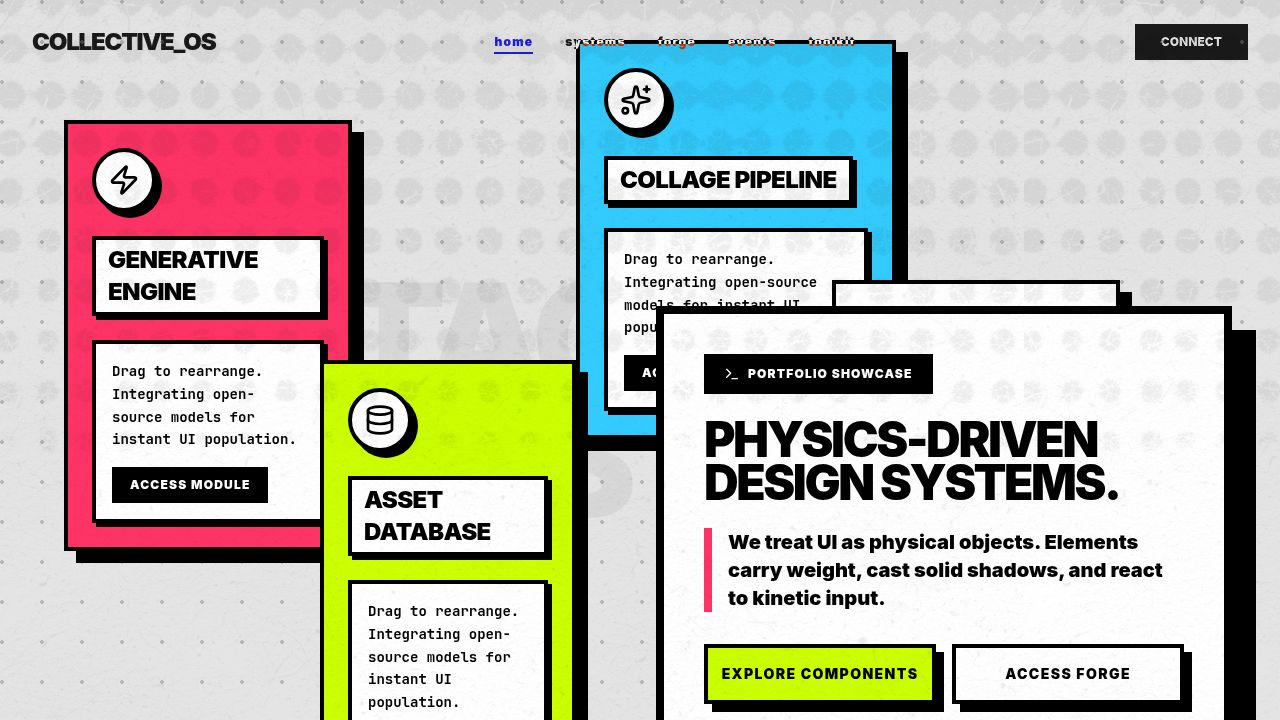
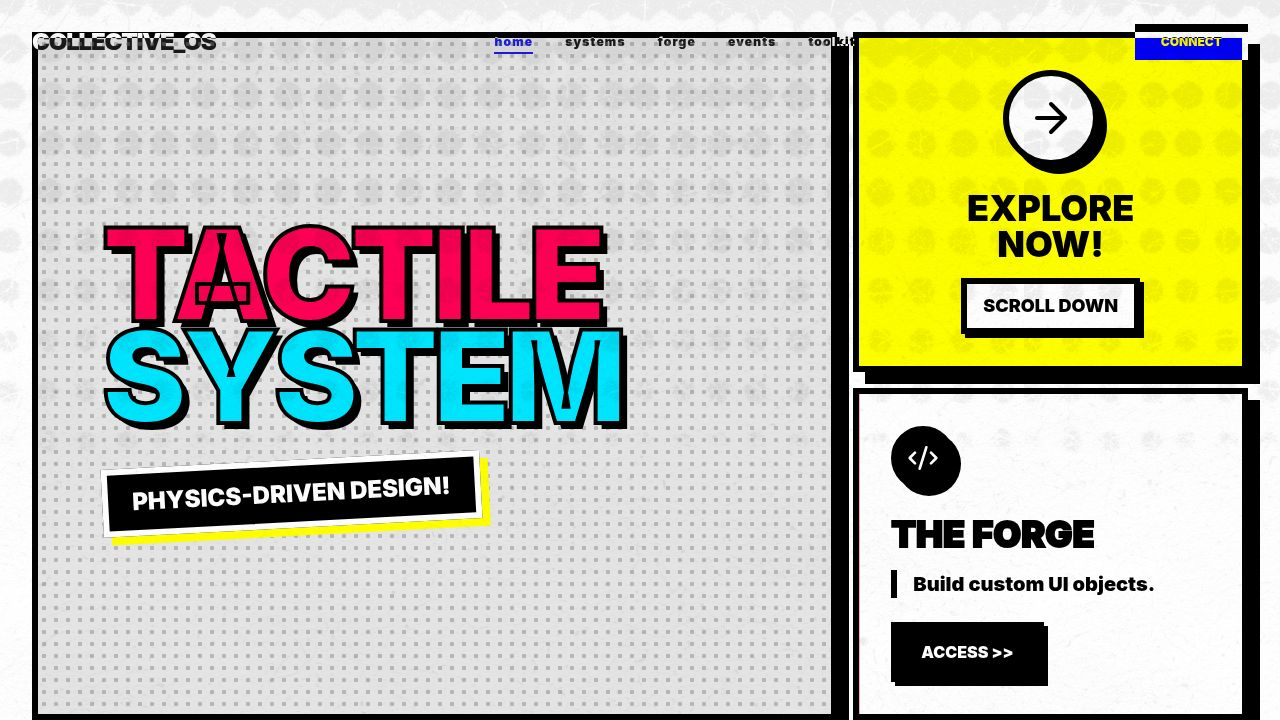
Add overlay and typing indicators to the graffiti typewriter
Introduce an initial overlay and typing indicator to the GraffitiTypewriterModule, along with error handling for audio context initialization.

Replit-Commit-Author: Agent
Replit-Commit-Session-Id: dddbd0cc-123f-4c3a-b02b-d2a3a9e95962
Replit-Commit-Checkpoint-Type: full_checkpoint
Replit-Commit-Event-Id: a899f042-247b-45fc-8f9e-b4dc7c5f1871
Replit-Commit-Screenshot-Url: https://storage.googleapis.com/screenshot-production-us-central1/1fbde5e4-162b-45a7-b527-cc40af12be28/dddbd0cc-123f-4c3a-b02b-d2a3a9e95962/fK86fmv
Replit-Helium-Checkpoint-Created: true

diff --git a/client/src/pages/GraffitiTypewriterModule.tsx b/client/src/pages/GraffitiTypewriterModule.tsx
@@ -6,48 +6,52 @@ import { ArrowLeft, Volume2, PenTool, Download, SlidersHorizontal, Image as Imag
 let audioCtx: AudioContext | undefined;
 const playTypewriterSound = () => {
   if (typeof window === 'undefined') return;
-  if (!audioCtx) audioCtx = new (window.AudioContext || (window as any).webkitAudioContext)();
-  if (audioCtx.state === 'suspended') audioCtx.resume();
+  try {
+    if (!audioCtx) audioCtx = new (window.AudioContext || (window as any).webkitAudioContext)();
+    if (audioCtx.state === 'suspended') audioCtx.resume();
 
-  const osc = audioCtx.createOscillator();
-  const gain = audioCtx.createGain();
+    const osc = audioCtx.createOscillator();
+    const gain = audioCtx.createGain();
 
-  osc.connect(gain);
-  gain.connect(audioCtx.destination);
+    osc.connect(gain);
+    gain.connect(audioCtx.destination);
 
-  const now = audioCtx.currentTime;
-  osc.type = 'square';
-  osc.frequency.setValueAtTime(150, now);
-  osc.frequency.exponentialRampToValueAtTime(40, now + 0.05);
-  
-  gain.gain.setValueAtTime(0.3, now);
-  gain.gain.exponentialRampToValueAtTime(0.01, now + 0.05);
+    const now = audioCtx.currentTime;
+    osc.type = 'square';
+    osc.frequency.setValueAtTime(150, now);
+    osc.frequency.exponentialRampToValueAtTime(40, now + 0.05);
+    
+    gain.gain.setValueAtTime(0.3, now);
+    gain.gain.exponentialRampToValueAtTime(0.01, now + 0.05);
 
-  osc.start(now);
-  osc.stop(now + 0.05);
+    osc.start(now);
+    osc.stop(now + 0.05);
+  } catch(e) {}
 };
 
 const playBellSound = () => {
   if (typeof window === 'undefined') return;
-  if (!audioCtx) audioCtx = new (window.AudioContext || (window as any).webkitAudioContext)();
-  if (audioCtx.state === 'suspended') audioCtx.resume();
+  try {
+    if (!audioCtx) audioCtx = new (window.AudioContext || (window as any).webkitAudioContext)();
+    if (audioCtx.state === 'suspended') audioCtx.resume();
 
-  const osc = audioCtx.createOscillator();
-  const gain = audioCtx.createGain();
+    const osc = audioCtx.createOscillator();
+    const gain = audioCtx.createGain();
 
-  osc.connect(gain);
-  gain.connect(audioCtx.destination);
+    osc.connect(gain);
+    gain.connect(audioCtx.destination);
 
-  const now = audioCtx.currentTime;
-  osc.type = 'sine';
-  osc.frequency.setValueAtTime(1200, now);
-  osc.frequency.exponentialRampToValueAtTime(400, now + 0.3);
-  
-  gain.gain.setValueAtTime(0.2, now);
-  gain.gain.exponentialRampToValueAtTime(0.01, now + 0.3);
+    const now = audioCtx.currentTime;
+    osc.type = 'sine';
+    osc.frequency.setValueAtTime(1200, now);
+    osc.frequency.exponentialRampToValueAtTime(400, now + 0.3);
+    
+    gain.gain.setValueAtTime(0.2, now);
+    gain.gain.exponentialRampToValueAtTime(0.01, now + 0.3);
 
-  osc.start(now);
-  osc.stop(now + 0.3);
+    osc.start(now);
+    osc.stop(now + 0.3);
+  } catch(e) {}
 };
 
 // --- Add custom fonts to the document ---
@@ -77,6 +81,8 @@ export default function GraffitiTypewriterModule({ setPage }: { setPage: (p: str
   const [prompt, setPrompt] = useState("");
   const [isGenerating, setIsGenerating] = useState(false);
 
+  const [showOverlay, setShowOverlay] = useState(true);
+  const hasStartedTypingRef = useRef(false);
   const posRef = useRef({ x: 50, y: 100 });
   const charsDrawn = useRef(0);
 
@@ -170,6 +176,10 @@ export default function GraffitiTypewriterModule({ setPage }: { setPage: (p: str
     }
 
     playTypewriterSound();
+    if (!hasStartedTypingRef.current) {
+      hasStartedTypingRef.current = true;
+      setShowOverlay(false);
+    }
     charsDrawn.current++;
 
     const x = posRef.current.x;
@@ -347,6 +357,8 @@ export default function GraffitiTypewriterModule({ setPage }: { setPage: (p: str
       ctx?.clearRect(0, 0, canvas.width, canvas.height);
       posRef.current = { x: 50, y: 100 };
       charsDrawn.current = 0;
+      hasStartedTypingRef.current = false;
+      setShowOverlay(true);
     }
   };
 
@@ -382,14 +394,33 @@ export default function GraffitiTypewriterModule({ setPage }: { setPage: (p: str
 
   // Setup Canvas Dimensions
   useEffect(() => {
-    const canvas = canvasRef.current;
-    if (canvas) {
-      const parent = canvas.parentElement;
-      if (parent) {
-        canvas.width = parent.clientWidth;
-        canvas.height = parent.clientHeight;
+    const handleResize = () => {
+      const canvas = canvasRef.current;
+      if (canvas && canvas.parentElement) {
+        // Save current content if any
+        const ctx = canvas.getContext('2d');
+        const tempCanvas = document.createElement('canvas');
+        tempCanvas.width = canvas.width || 1;
+        tempCanvas.height = canvas.height || 1;
+        const tempCtx = tempCanvas.getContext('2d');
+        if (tempCtx && canvas.width > 0 && canvas.height > 0) {
+            tempCtx.drawImage(canvas, 0, 0);
+        }
+
+        canvas.width = canvas.parentElement.clientWidth;
+        canvas.height = canvas.parentElement.clientHeight;
+
+        // Restore content
+        if (tempCanvas.width > 1 && tempCanvas.height > 1) {
+            ctx?.drawImage(tempCanvas, 0, 0);
+        }
       }
-    }
+    };
+
+    // Run after a tiny delay to ensure layout is complete
+    setTimeout(handleResize, 100);
+    window.addEventListener('resize', handleResize);
+    return () => window.removeEventListener('resize', handleResize);
   }, []);
 
   return (
@@ -550,7 +581,7 @@ export default function GraffitiTypewriterModule({ setPage }: { setPage: (p: str
 
             {/* Instruction Overlay (fades out when typed) */}
             <AnimatePresence>
-                {charsDrawn.current === 0 && (
+                {showOverlay && (
                     <motion.div 
                         initial={{ opacity: 1 }}
                         exit={{ opacity: 0 }}
